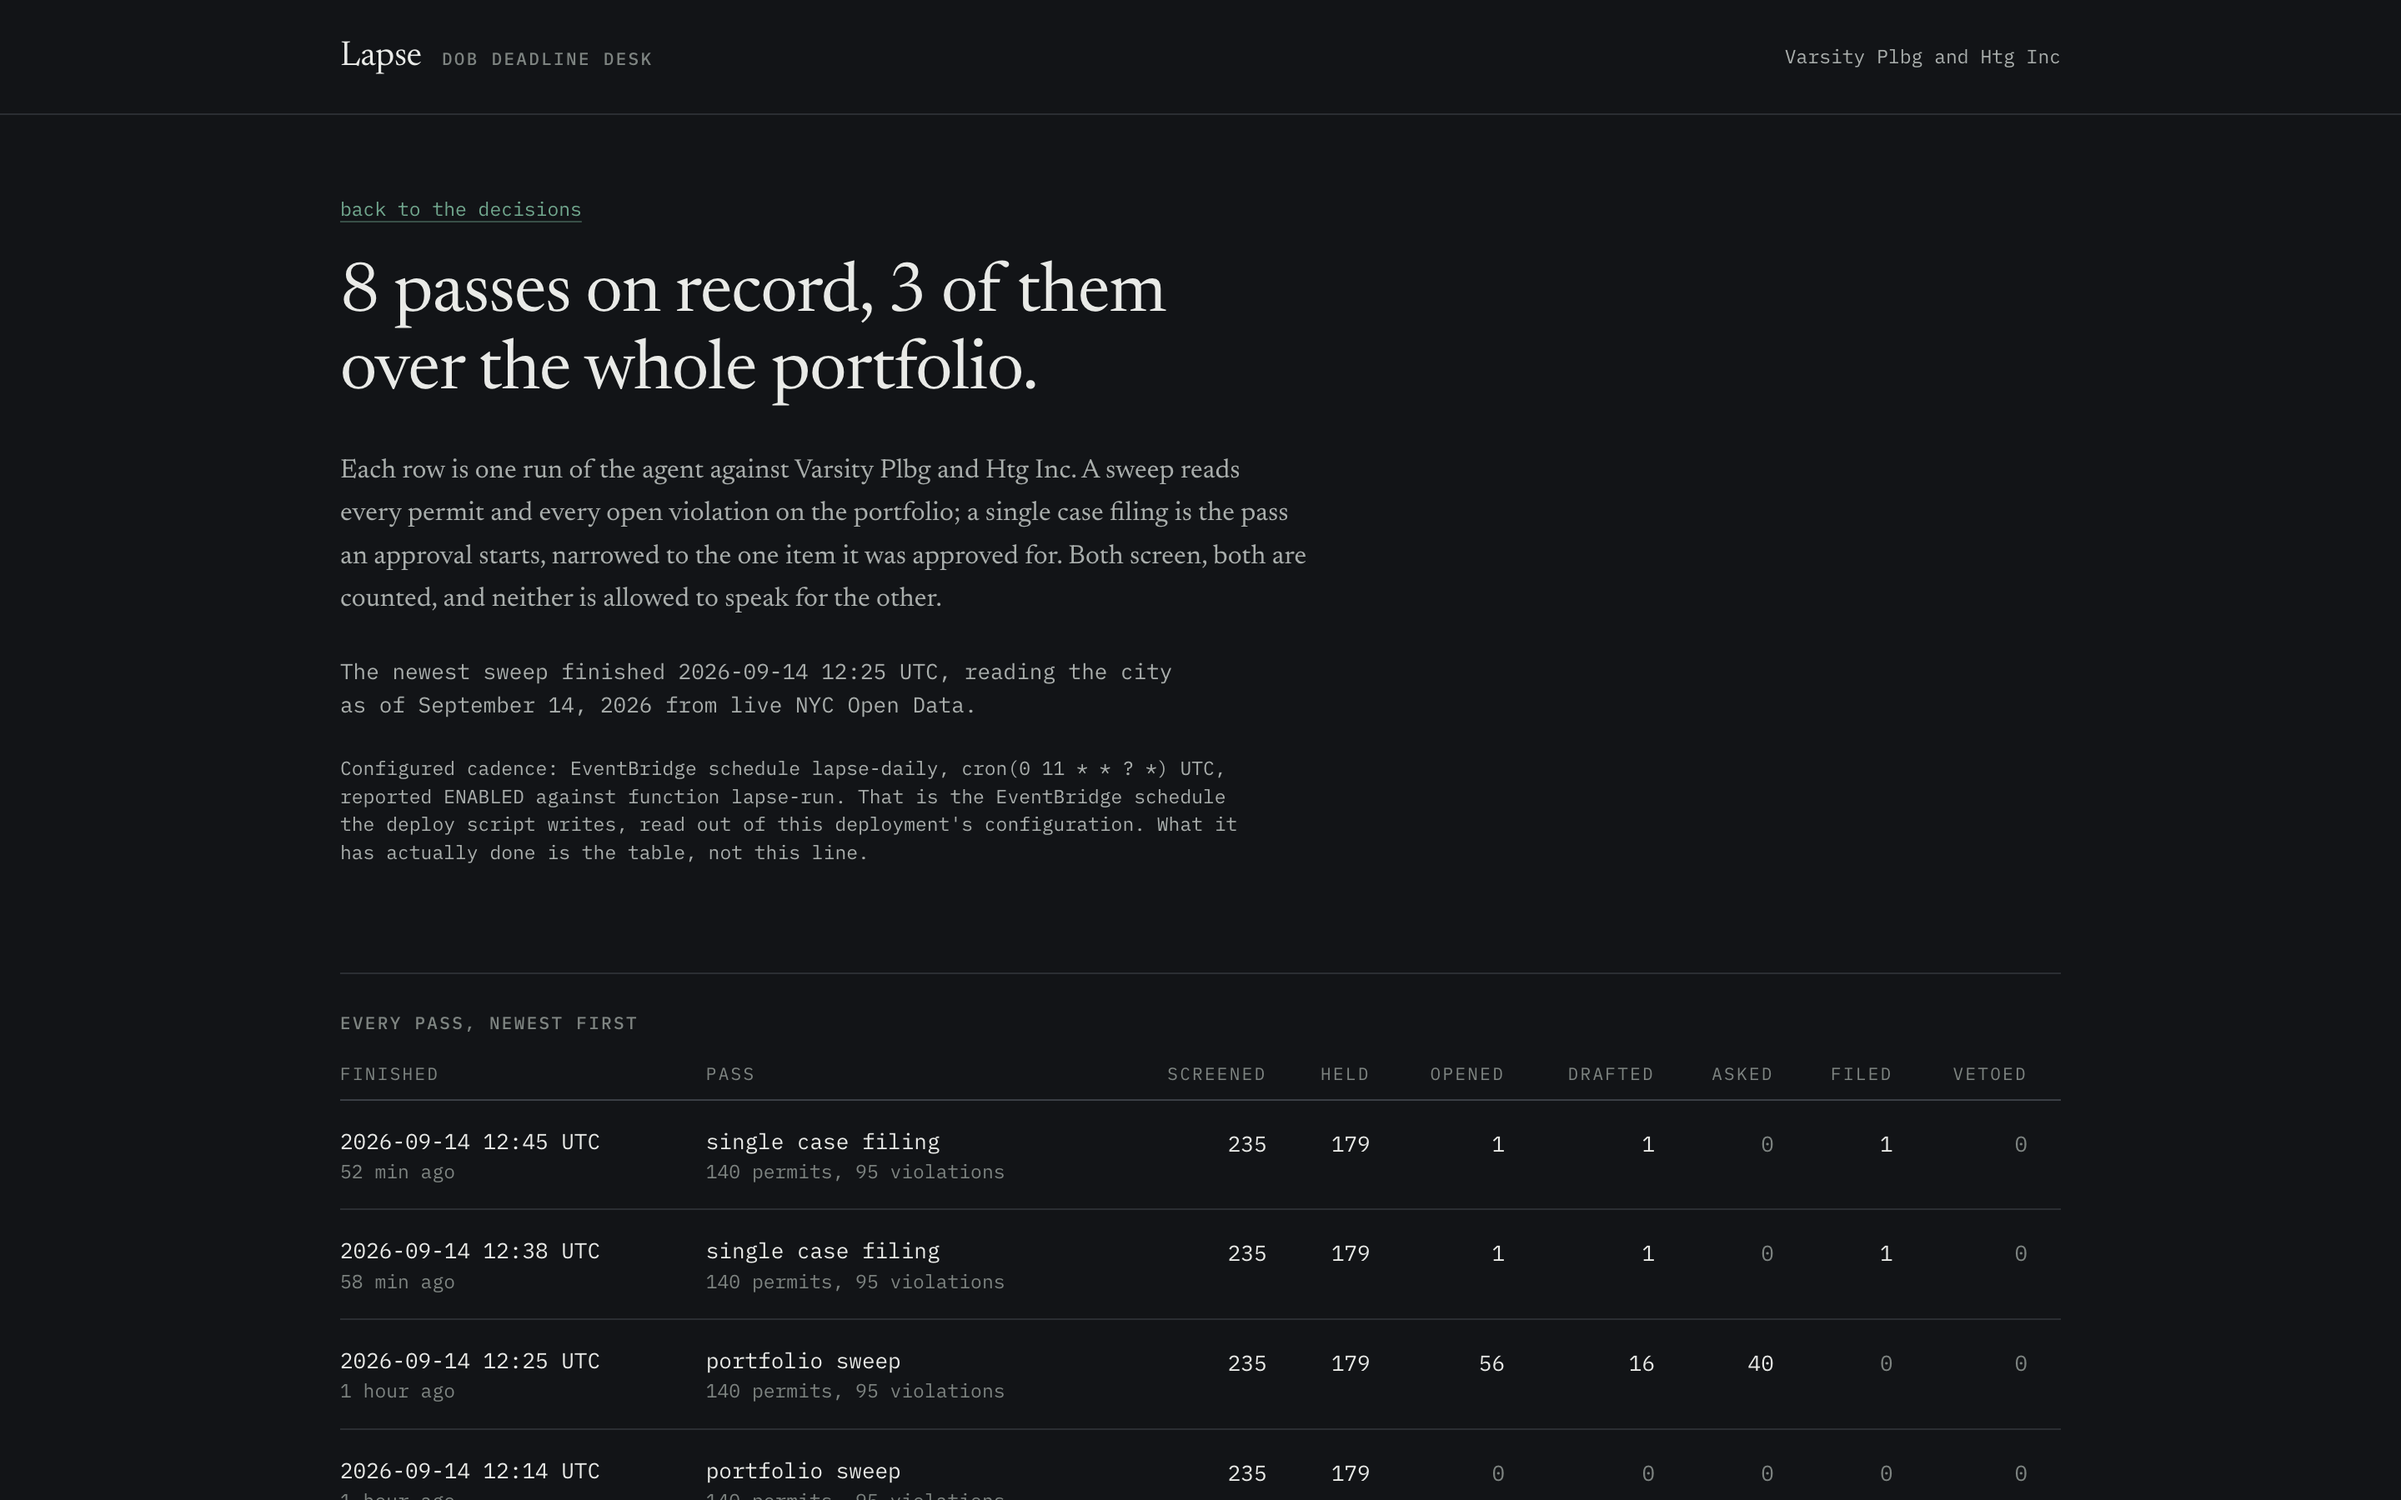
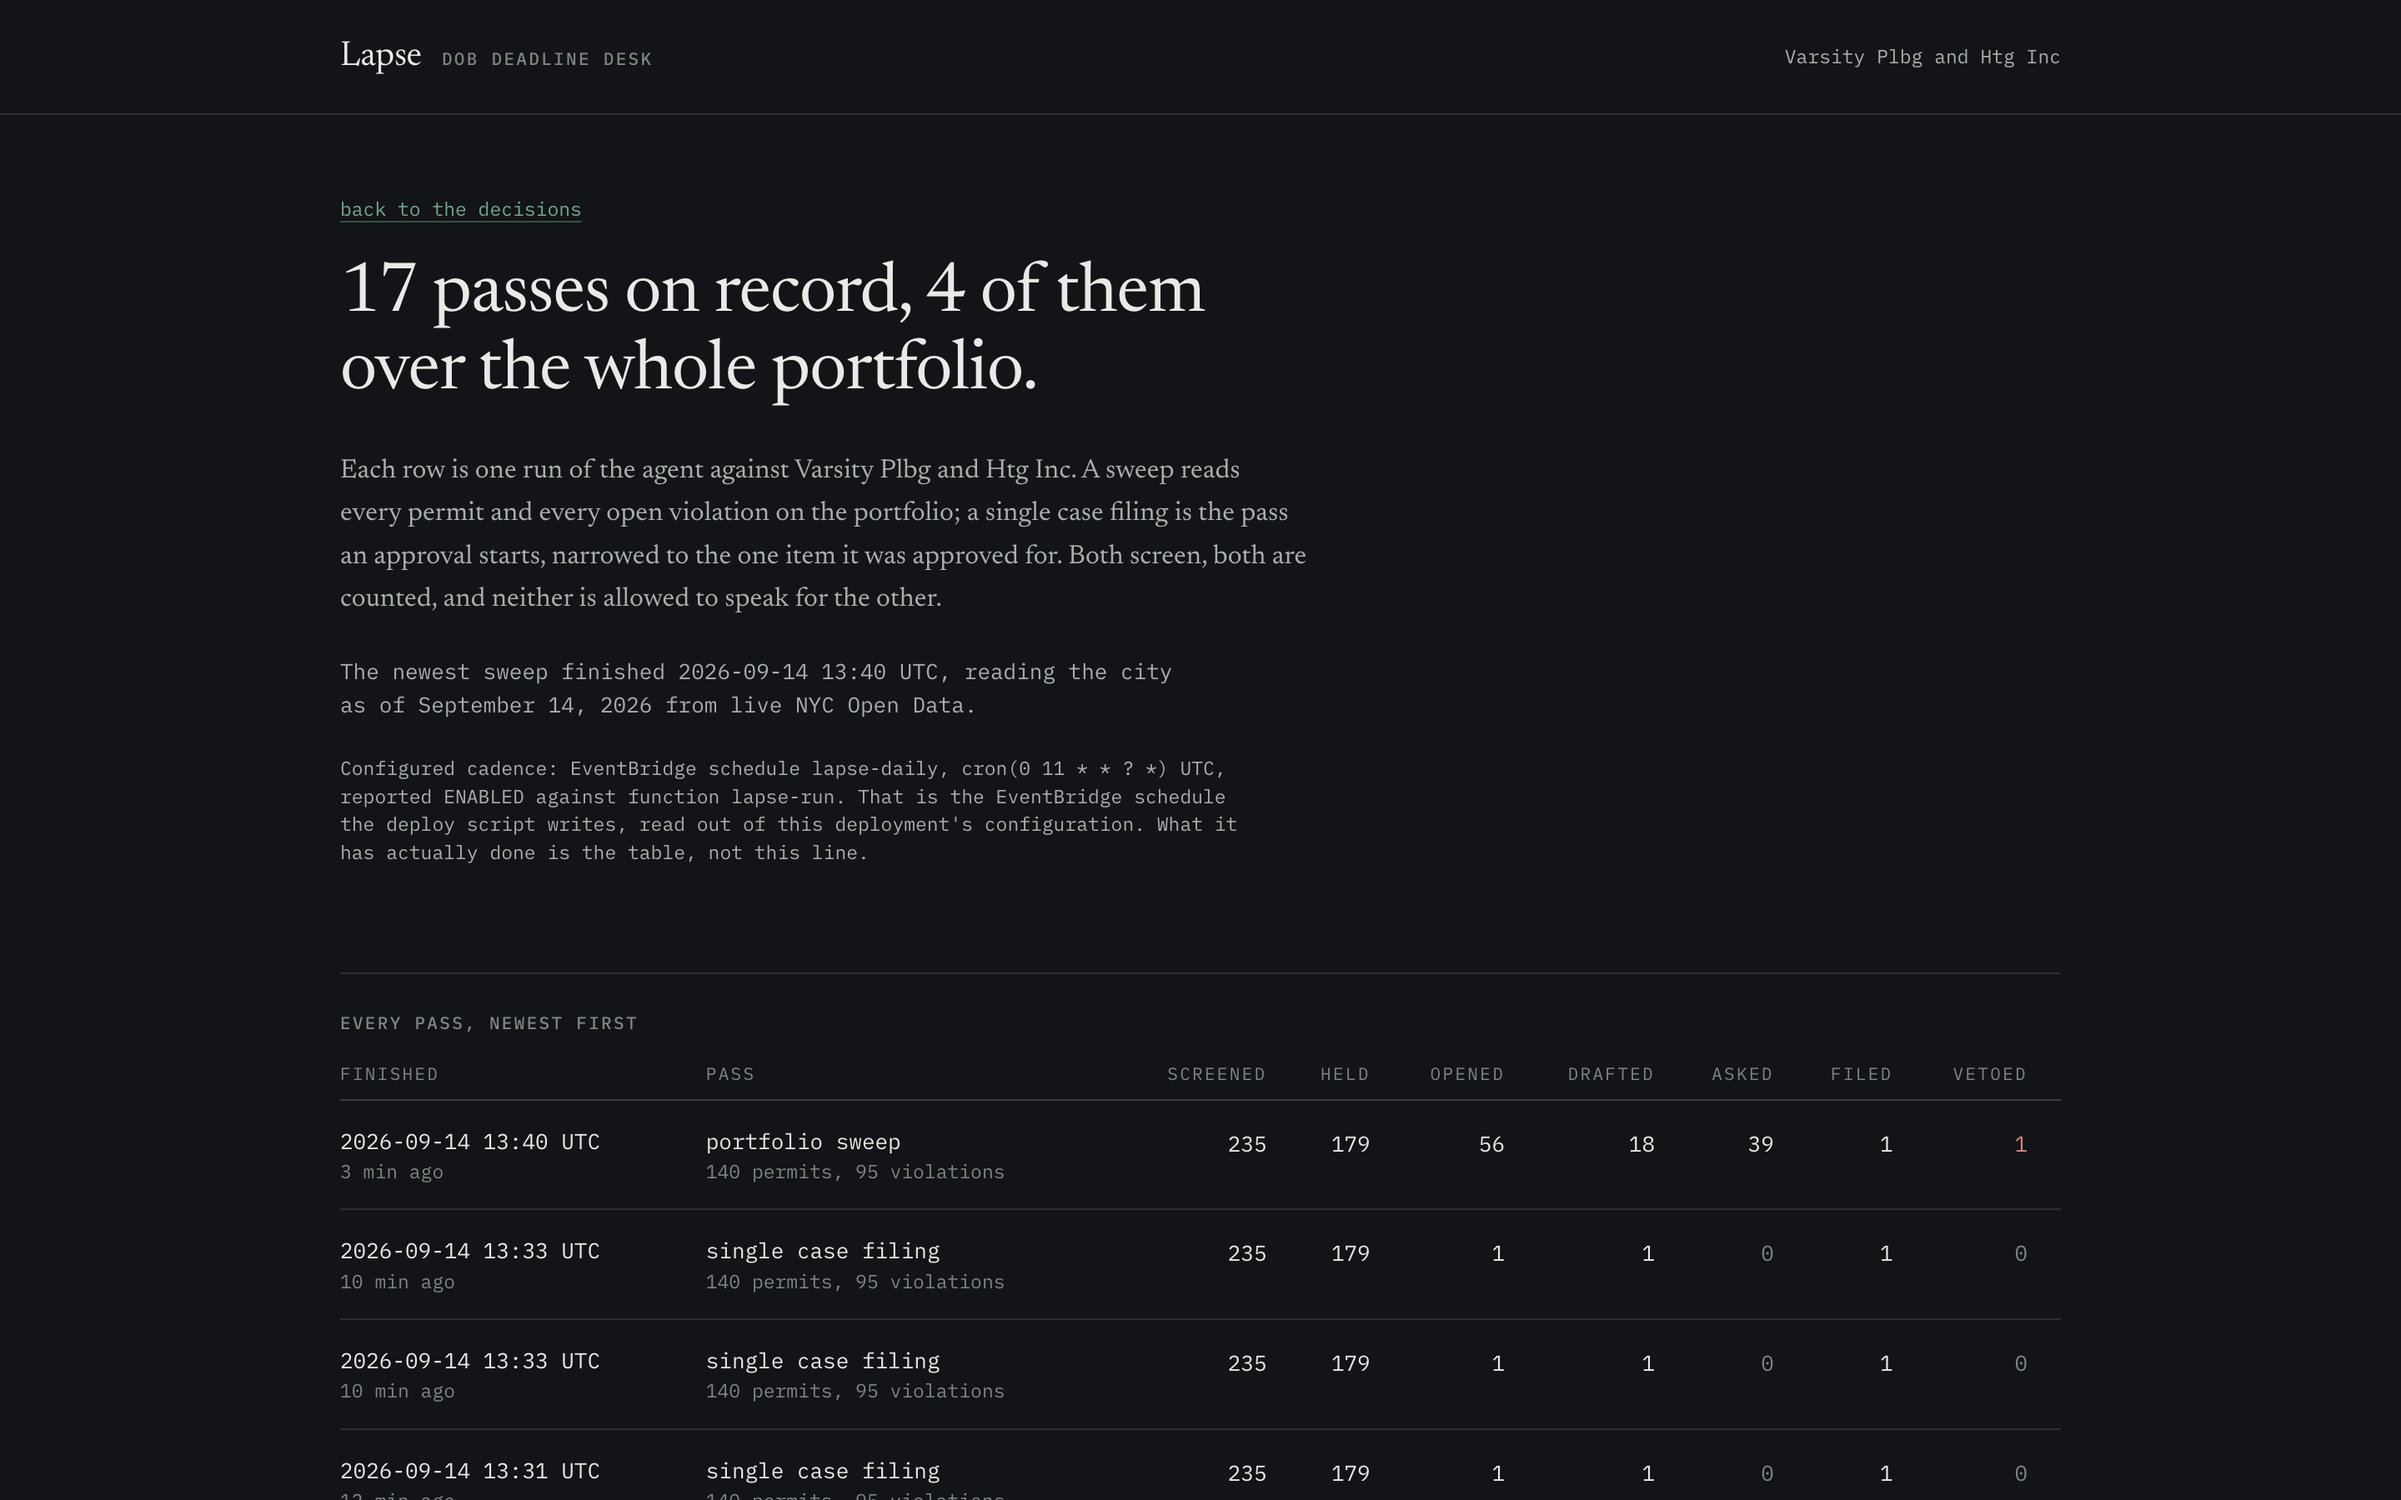
console: screenshots of the live surfaces at 1440 and 390
The queue with its overview, the batch confirmation naming every case and its
recipient, one card with the audit trail intact, and the run history where the
newest sweep is carrying a veto.

diff --git a/console/lib/store.ts b/console/lib/store.ts
@@ -83,7 +83,11 @@ function split(rows: Record<string, unknown>[]): { cases: Case[]; runs: Run[] } 
         item: c.item ?? {},
         job: c.job ?? null,
         timeline: c.timeline ?? [],
+        // Spread first, then default. Listing the fields instead silently drops every field the
+        // engine adds later: `question_shape` and `choices` were both lost that way, which took
+        // the answer control off all 39 open questions while the records themselves carried it.
         verdict: {
+          ...c.verdict,
           outcome: c.verdict?.outcome ?? "DECIDE",
           klass: c.verdict?.klass ?? null,
           due_on: c.verdict?.due_on ?? null,
